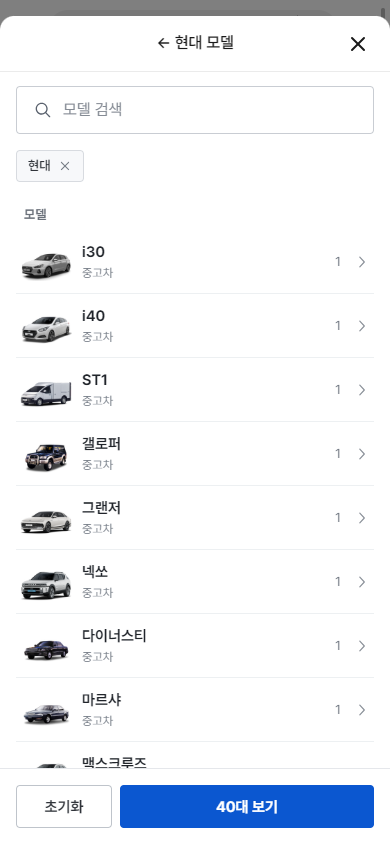
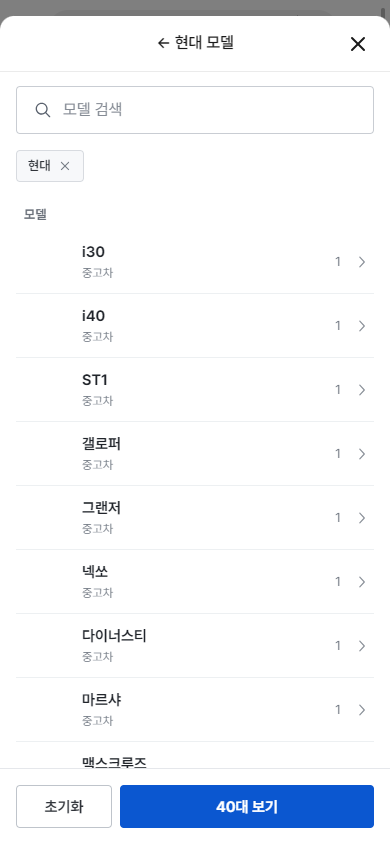
Unify maker model sheets across car brands

diff --git a/src/prototype/listing/maker-hierarchy-modal.tsx b/src/prototype/listing/maker-hierarchy-modal.tsx
@@ -79,6 +79,9 @@ export function MakerHierarchyModal({
   const generationRows = useMemo(() => draftModel ? (generationsByModel[draftModel] ?? []).filter((item) => (
     !keyword || `${item.cardLabel ?? item.displayLabel ?? item.name} ${item.cardSub ?? item.years}`.toLowerCase().includes(keyword)
   )) : [], [draftModel, generationsByModel, keyword]);
+  const makerCount = (maker: string) => (modelsByMaker[maker] ?? []).reduce((sum, name) => (
+    sum + numberFromCount(modelVisualsByMaker[maker]?.[name]?.count)
+  ), 0);
   const selectedGeneration = draftModel && draftGeneration ? (generationsByModel[draftModel] ?? []).find((item) => item.name === draftGeneration) : undefined;
   const modelCount = draftModel ? numberFromCount(modelVisuals[draftModel]?.count) : modelNames.reduce((sum, name) => sum + numberFromCount(modelVisuals[name]?.count), 0);
   const resultCount = selectedGeneration?.count ?? modelCount;
@@ -120,10 +123,10 @@ export function MakerHierarchyModal({
       {step === "maker" ? <div className="maker-hierarchy-maker-sections">
         {makerSections.map((section) => <section key={section.key} className="maker-hierarchy-section">
           <p>{section.label}</p>
-          {section.rows.map((maker) => <button key={maker.name} type="button" className="maker-hierarchy-row is-maker" onClick={() => chooseMaker(maker.name)}>
+          {section.rows.map((maker) => <button key={maker.name} type="button" className="maker-hierarchy-row is-maker" data-maker={maker.name} onClick={() => chooseMaker(maker.name)}>
             <span className="maker-hierarchy-logo">{renderMakerLogo(maker)}</span>
             <span className="maker-hierarchy-copy"><strong>{maker.name}</strong></span>
-            <span aria-hidden="true" />
+            <small>{formatCount(makerCount(maker.name))}</small>
             <ChevronRightIcon aria-hidden="true" />
           </button>)}
         </section>)}
@@ -133,7 +136,7 @@ export function MakerHierarchyModal({
         <p>모델</p>
         {modelRows.map((name) => {
           const visual = modelVisuals[name];
-          return <button key={name} type="button" className="maker-hierarchy-row is-vehicle" onClick={() => { setDraftModel(name); setDraftGeneration(null); setStep("generation"); setQuery(""); }}>
+          return <button key={name} type="button" className="maker-hierarchy-row is-vehicle" data-model={name} onClick={() => { setDraftModel(name); setDraftGeneration(null); setStep("generation"); setQuery(""); }}>
             <span className={`maker-hierarchy-image is-${visual?.bodyFit ?? "width"}`}>{visual?.image ? <img src={visual.image} alt="" draggable={false} /> : null}</span>
             <span className="maker-hierarchy-copy"><strong>{formatModel(name)}</strong><em>{visual?.bodyType ?? "중고차"}</em></span>
             <small>{formatCount(numberFromCount(visual?.count))}</small><ChevronRightIcon aria-hidden="true" />
@@ -143,7 +146,7 @@ export function MakerHierarchyModal({
       </section> : null}
       {step === "generation" ? <section className="maker-hierarchy-section is-list">
         <p>세부모델</p>
-        {generationRows.map((item) => <button key={item.name} type="button" className={`maker-hierarchy-row is-vehicle${draftGeneration === item.name ? " is-selected" : ""}`} aria-pressed={draftGeneration === item.name} onClick={() => setDraftGeneration(item.name)}>
+        {generationRows.map((item) => <button key={item.name} type="button" className={`maker-hierarchy-row is-vehicle${draftGeneration === item.name ? " is-selected" : ""}`} data-generation={item.name} aria-pressed={draftGeneration === item.name} onClick={() => setDraftGeneration(item.name)}>
           <span className={`maker-hierarchy-image is-${item.bodyFit ?? "width"}`}>{item.image ? <img src={item.image} alt="" draggable={false} /> : null}</span>
           <span className="maker-hierarchy-copy"><strong>{item.cardLabel ?? item.displayLabel ?? item.name}</strong><em>{item.cardSub ?? item.years}</em></span>
           <small>{formatCount(item.count ?? 0)}</small>{draftGeneration === item.name ? <CheckIcon aria-hidden="true" /> : <ChevronRightIcon aria-hidden="true" />}

diff --git a/src/prototype/listing/index.tsx b/src/prototype/listing/index.tsx
@@ -2611,7 +2611,7 @@ function MarketplaceScreen() {
                     {oldcarListingBrands ? oldcarListingBrands.map(card) : <>
                       {sections.domestic.map(card)}
                       {sections.imported.map(card)}
-                      <DepthCard key="기타 브랜드" label="기타 브랜드" image={<span className="kr-all-brands" aria-hidden="true"><svg viewBox="0 0 22 24" fill="none"><path fillRule="evenodd" clipRule="evenodd" d="M17 13.5c-.85 0-1.5-.65-1.5-1.5s.65-1.5 1.5-1.5 1.5.65 1.5 1.5-.65 1.5-1.5 1.5Zm0-1c.3 0 .5-.2.5-.5s-.2-.5-.5-.5-.5.2-.5.5.2.5.5.5Zm-6-2c.85 0 1.5.65 1.5 1.5s-.65 1.5-1.5 1.5-1.5-.65-1.5-1.5.65-1.5 1.5-1.5Zm0 1c-.3 0-.5.2-.5.5s.2.5.5.5.5-.2.5-.5-.2-.5-.5-.5Zm-4.5.5c0-.85-.65-1.5-1.5-1.5s-1.5.65-1.5 1.5.65 1.5 1.5 1.5 1.5-.65 1.5-1.5Zm-2 0c0-.3.2-.5.5-.5s.5.2.5.5-.2.5-.5.5-.5-.2-.5-.5Z" fill="currentColor" /></svg></span>} mediaKind="brand" onClick={() => supportsVehicleCatalog ? setSheet("vehicle") : setBbmChipPanel("제조사")} />
+                      <DepthCard key="기타 브랜드" label="기타 브랜드" image={<span className="kr-all-brands" aria-hidden="true"><svg viewBox="0 0 22 24" fill="none"><path fillRule="evenodd" clipRule="evenodd" d="M17 13.5c-.85 0-1.5-.65-1.5-1.5s.65-1.5 1.5-1.5 1.5.65 1.5 1.5-.65 1.5-1.5 1.5Zm0-1c.3 0 .5-.2.5-.5s-.2-.5-.5-.5-.5.2-.5.5.2.5.5.5Zm-6-2c.85 0 1.5.65 1.5 1.5s-.65 1.5-1.5 1.5-1.5-.65-1.5-1.5.65-1.5 1.5-1.5Zm0 1c-.3 0-.5.2-.5.5s.2.5.5.5.5-.2.5-.5-.2-.5-.5-.5Zm-4.5.5c0-.85-.65-1.5-1.5-1.5s-1.5.65-1.5 1.5.65 1.5 1.5 1.5 1.5-.65 1.5-1.5Zm-2 0c0-.3.2-.5.5-.5s.5.2.5.5-.2.5-.5.5-.5-.2-.5-.5Z" fill="currentColor" /></svg></span>} mediaKind="brand" onClick={() => setBbmChipPanel("제조사")} />
                     </>}
                   </QuickRailCarousel>
                 </section>

diff --git a/docs/quick-filter-spec.md b/docs/quick-filter-spec.md
@@ -73,6 +73,7 @@
 ## Vehicle Picker Sheet
 
 - Vehicle picker sheet opens from the merged summary chip.
+- 승용 제조사·모델 바텀필터(2026-10-20): 현대 샘플에서 확정한 `제조사 → 모델 → 세부모델` 화면·검색·선택 경로를 국산 7개와 수입 55개 전체 제조사에 공통 적용한다. 카테고리가 `국산차`이면 국산만, `수입차`이면 수입만, `중고차/전체차량`이면 양쪽을 구획해 표시한다. 상단 제조사 칩과 빠른선택의 `기타 브랜드`는 반드시 같은 `MakerHierarchyModal`/모바일 바텀시트를 열며, 예전 `CatalogVehiclePickerSheet` 제조사 화면을 섞어 쓰지 않는다. 제조사 행에는 로고·이름·연결 모델 수·꺾쇠를 같은 슬롯으로 표시한다.
 - Model and generation options wrap to multiple lines.
 - Manufacturer options wrap when the list grows beyond one row.
 - Sheet height is capped at 80% viewport height with internal vertical scrolling.
